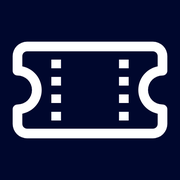
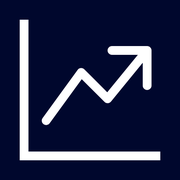
Preimenovanje u Kvota Bet, nova ikonica, tri ispravke prikaza

Changed region(s): [[0.0556, 0.0833, 0.9444, 0.9167]]

diff --git a/css/style.css b/css/style.css
@@ -646,6 +646,20 @@ h3 { font-size: 1.3rem; }
 .dropdown-item { border-radius: var(--radijus-sm); padding: .45rem .7rem; }
 .dropdown-item:hover { background: var(--red-hover); color: var(--naslov); }
 
+/* Isti obrazac kao .kvota.izabrana:hover niže u fajlu: .dropdown-item:hover i
+   .dropdown-item.active imaju istu težinu (0,2,0 - po dve klase), pa prelazak
+   miša preko VEĆ aktivne stavke (npr. trenutna stranica u grupi menija)
+   prebija akcenat bledom hover pozadinom - stavka pri prelasku izgleda kao da
+   NIJE izabrana. Kombinovani selektor (0,3,0) je jači i vraća pun akcenat;
+   vrednosti se čitaju iz istih --bs-dropdown-link-active-* promenljivih koje
+   .dropdown-menu već postavlja (iznad), pa izmena tamo automatski prati i
+   ovo pravilo. */
+.dropdown-item.active:hover,
+.dropdown-item.active:focus {
+    background: var(--bs-dropdown-link-active-bg);
+    color: var(--bs-dropdown-link-active-color);
+}
+
 /* =====================================================================
    KARTICE I SEKCIJE
    ===================================================================== */
@@ -924,6 +938,24 @@ h3 { font-size: 1.3rem; }
 }
 
 .tiket-stavka .kvota-vrednost { font-weight: 700; }
+
+/* Oznaka i vrednost kvote u ISTORIJI tiketa (igrac/tiketi.php, admin/tiketi.php)
+   - razdvojene, umesto da stoje slepljene u istom tekstu ("1 2.40"). Rečnik je
+   isti kao u ponudi (.oznaka/.kvota-vrednost), ne .tip iz panela iznad: .tip
+   je akcentovan jer u živom panelu SAM PO SEBI vodi pažnju ka paru koji se tek
+   uplaćuje, dok je ovde reč o već uplaćenom, istorijskom podatku - sitna,
+   prigušena oznaka pored krupne vrednosti dovoljno razdvaja bez novog isticanja.
+   .list-group-item je jedini zajednički predak u oba fajla (Bootstrap-ova
+   klasa, već u markupu - nije nova), pa je iskorišćen kao kuka umesto da se
+   izmišlja nova klasa. */
+.list-group-item .oznaka {
+    font-family: 'Barlow Condensed', sans-serif;
+    font-size: .74rem;
+    font-weight: 600;
+    letter-spacing: .08em;
+    text-transform: uppercase;
+    color: var(--prigusen);
+}
 
 .tiket-ukloni {
     background: none;

diff --git a/admin/tiketi.php b/admin/tiketi.php
@@ -368,9 +368,16 @@ require_once __DIR__ . '/../includes/zaglavlje.php';
                     <ul class="list-group list-group-flush">
                         <?php foreach ($tiket['stavke'] as $stavka): ?>
                             <li class="list-group-item d-flex flex-wrap justify-content-between align-items-center gap-2">
+                                <?php // Naziv meča ide u sopstveni red, odvojen od oznake i vrednosti kvote -
+                                      // ranije su bili u istom tekstu ("Crvena zvezda — Partizan 1 2.40"), pa se
+                                      // nije videlo gde prestaje meč a počinje kvota. Oznaka/vrednost razdvojene
+                                      // istim rečnikom kao u ponudi (.oznaka/.kvota-vrednost). ?>
                                 <div class="small">
-                                    <?= bezbedno($stavka['domacin']) ?> — <?= bezbedno($stavka['gost']) ?>
-                                    <span class="kvota-vrednost fw-semibold ms-1"><?= bezbedno($stavka['oznaka']) ?> <?= number_format((float) $stavka['kvota_vrednost'], 2) ?></span>
+                                    <div class="fw-semibold"><?= bezbedno($stavka['domacin']) ?> — <?= bezbedno($stavka['gost']) ?></div>
+                                    <div>
+                                        <span class="oznaka"><?= bezbedno($stavka['oznaka']) ?></span>
+                                        <span class="kvota-vrednost fw-semibold"><?= number_format((float) $stavka['kvota_vrednost'], 2) ?></span>
+                                    </div>
                                 </div>
                                 <div class="d-flex gap-1 align-items-center">
                                     <form method="post" class="d-flex gap-1"

diff --git a/igrac/tiketi.php b/igrac/tiketi.php
@@ -105,8 +105,11 @@ require_once __DIR__ . '/../includes/zaglavlje.php';
                                     </div>
                                 </div>
                                 <div class="d-flex align-items-center gap-2">
-                                    <?php // Kvota je snimljena u trenutku uplate, pa se ne menja ni ako je operater kasnije izmeni ?>
-                                    <span class="kvota-vrednost fw-semibold"><?= bezbedno($stavka['oznaka']) ?> <?= number_format((float) $stavka['kvota_vrednost'], 2) ?></span>
+                                    <?php // Kvota je snimljena u trenutku uplate, pa se ne menja ni ako je operater kasnije izmeni.
+                                          // Oznaka i vrednost su razdvojene istim rečnikom kao u ponudi (.oznaka/.kvota-vrednost),
+                                          // umesto da stoje slepljene u jednom tekstu ("1 2.40"). ?>
+                                    <span class="oznaka"><?= bezbedno($stavka['oznaka']) ?></span>
+                                    <span class="kvota-vrednost fw-semibold"><?= number_format((float) $stavka['kvota_vrednost'], 2) ?></span>
                                     <span class="status status-<?= bezbedno($stavka['stavka_status']) ?>"><?= bezbedno($stavka['stavka_status']) ?></span>
                                 </div>
                             </li>

diff --git a/includes/glava.php b/includes/glava.php
@@ -34,7 +34,7 @@ function puna_adresa(string $putanja): string
 function ispisi_glavu(string $naslov, ?string $opis = null): void
 {
     $opis = $opis ?? OPIS_APLIKACIJE;
-    $pun_naslov = $naslov . ' — Kladionica';
+    $pun_naslov = $naslov . ' — Kvota Bet';
     ?>
     <meta charset="UTF-8">
     <meta name="viewport" content="width=device-width, initial-scale=1">
@@ -51,7 +51,7 @@ function ispisi_glavu(string $naslov, ?string $opis = null): void
 
     <?php // Open Graph - kako link izgleda kad se nalepi u poruku ili na sajt ?>
     <meta property="og:type" content="website">
-    <meta property="og:site_name" content="Kladionica">
+    <meta property="og:site_name" content="Kvota Bet">
     <meta property="og:title" content="<?= bezbedno($pun_naslov) ?>">
     <meta property="og:description" content="<?= bezbedno($opis) ?>">
     <meta property="og:image" content="<?= bezbedno(puna_adresa(KORENSKI_URL . '/og-slika.png')) ?>">

diff --git a/includes/zaglavlje.php b/includes/zaglavlje.php
@@ -141,8 +141,8 @@ function grupa_menija(string $naziv_grupe, array $stavke): void
 <nav class="navbar navbar-expand-lg navbar-dark">
     <div class="container">
         <a class="navbar-brand" href="<?= KORENSKI_URL ?>/index.php">
-            <i class="bi bi-ticket-perforated" aria-hidden="true"></i>
-            Kladionica
+            <i class="bi bi-graph-up-arrow" aria-hidden="true"></i>
+            Kvota Bet
         </a>
         <button class="navbar-toggler" type="button" data-bs-toggle="collapse" data-bs-target="#glavniMeni"
                 aria-controls="glavniMeni" aria-expanded="false" aria-label="Prikaži meni">

diff --git a/registracija.php b/registracija.php
@@ -118,7 +118,7 @@ $max_datum_rodjenja = date('Y-m-d', strtotime('-' . MIN_GODINA_ZA_REGISTRACIJU .
             <div class="card auth-karta">
                 <div class="card-body p-4">
                     <div class="text-center mb-4">
-                        <span class="eyebrow">Kladionica</span>
+                        <span class="eyebrow">Kvota Bet</span>
                         <h1 class="mb-0">Registracija</h1>
                     </div>
 

diff --git a/prijava.php b/prijava.php
@@ -75,7 +75,7 @@ $csrf_token = generisi_csrf_token();
             <div class="card auth-karta">
                 <div class="card-body p-4">
                     <div class="text-center mb-4">
-                        <span class="eyebrow">Kladionica</span>
+                        <span class="eyebrow">Kvota Bet</span>
                         <h1 class="mb-0">Prijava</h1>
                     </div>
 

diff --git a/includes/podnozje.php b/includes/podnozje.php
@@ -9,7 +9,7 @@
 
 <footer class="podnozje mt-auto">
     <div class="container text-center">
-        &copy; <?= date('Y') ?> Kladionica — fakultetski projekat
+        &copy; <?= date('Y') ?> Kvota Bet — fakultetski projekat
 
         <?php // Napomena stoji na svakoj strani da nijedan ekran ne ostavi utisak pravog uplatnog mesta ?>
         <div class="napomena">
